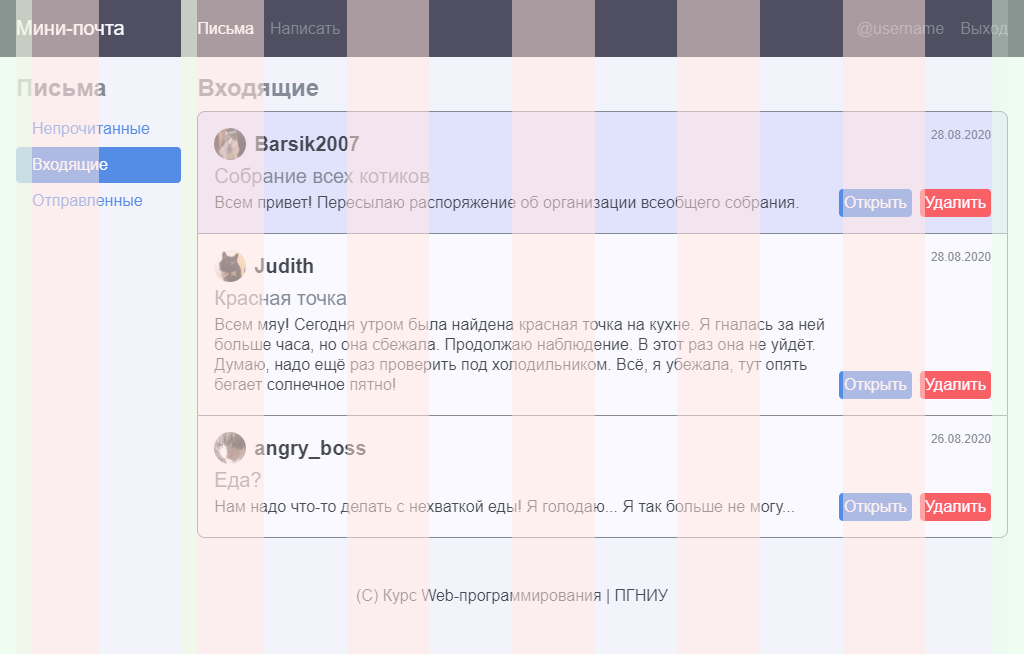
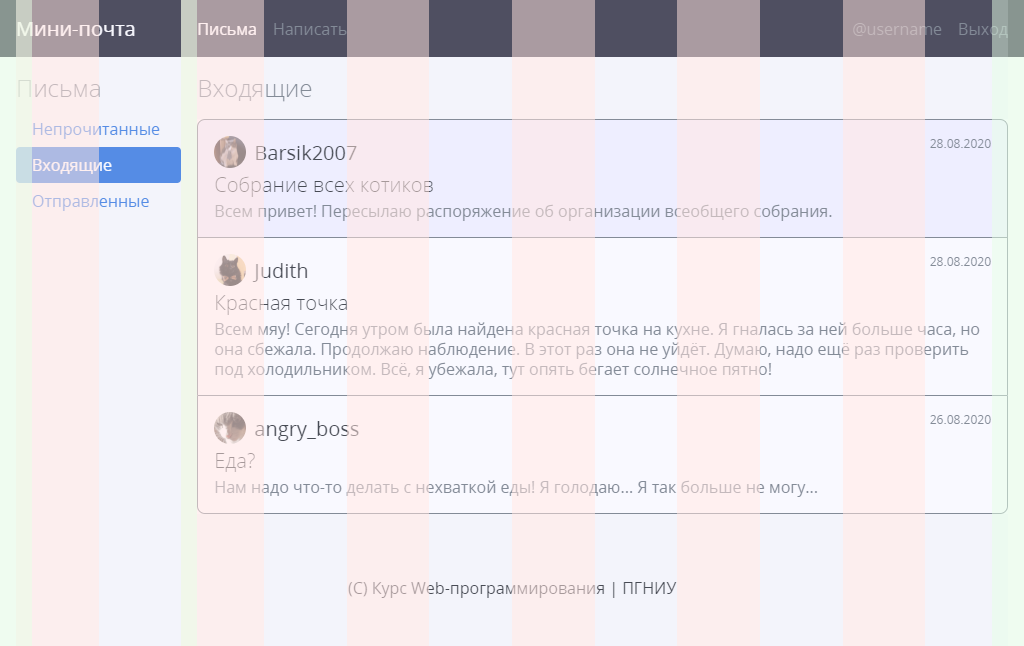
Make layout easier and more beautiful

diff --git a/solution/styles/_fonts.css b/solution/styles/_fonts.css
@@ -1,0 +1,72 @@
+/* cyrillic-ext */
+@font-face {
+  font-family: 'Open Sans';
+  font-style: normal;
+  font-weight: 300;
+  font-display: swap;
+  src: local('Open Sans Light'), local('OpenSans-Light'), url(https://fonts.gstatic.com/s/opensans/v17/mem5YaGs126MiZpBA-UN_r8OX-hpOqc.woff2) format('woff2');
+  unicode-range: U+0460-052F, U+1C80-1C88, U+20B4, U+2DE0-2DFF, U+A640-A69F, U+FE2E-FE2F;
+}
+/* cyrillic */
+@font-face {
+  font-family: 'Open Sans';
+  font-style: normal;
+  font-weight: 300;
+  font-display: swap;
+  src: local('Open Sans Light'), local('OpenSans-Light'), url(https://fonts.gstatic.com/s/opensans/v17/mem5YaGs126MiZpBA-UN_r8OVuhpOqc.woff2) format('woff2');
+  unicode-range: U+0400-045F, U+0490-0491, U+04B0-04B1, U+2116;
+}
+/* latin-ext */
+@font-face {
+  font-family: 'Open Sans';
+  font-style: normal;
+  font-weight: 300;
+  font-display: swap;
+  src: local('Open Sans Light'), local('OpenSans-Light'), url(https://fonts.gstatic.com/s/opensans/v17/mem5YaGs126MiZpBA-UN_r8OXOhpOqc.woff2) format('woff2');
+  unicode-range: U+0100-024F, U+0259, U+1E00-1EFF, U+2020, U+20A0-20AB, U+20AD-20CF, U+2113, U+2C60-2C7F, U+A720-A7FF;
+}
+/* latin */
+@font-face {
+  font-family: 'Open Sans';
+  font-style: normal;
+  font-weight: 300;
+  font-display: swap;
+  src: local('Open Sans Light'), local('OpenSans-Light'), url(https://fonts.gstatic.com/s/opensans/v17/mem5YaGs126MiZpBA-UN_r8OUuhp.woff2) format('woff2');
+  unicode-range: U+0000-00FF, U+0131, U+0152-0153, U+02BB-02BC, U+02C6, U+02DA, U+02DC, U+2000-206F, U+2074, U+20AC, U+2122, U+2191, U+2193, U+2212, U+2215, U+FEFF, U+FFFD;
+}
+/* cyrillic-ext */
+@font-face {
+  font-family: 'Open Sans';
+  font-style: normal;
+  font-weight: 400;
+  font-display: swap;
+  src: local('Open Sans Regular'), local('OpenSans-Regular'), url(https://fonts.gstatic.com/s/opensans/v17/mem8YaGs126MiZpBA-UFWJ0bbck.woff2) format('woff2');
+  unicode-range: U+0460-052F, U+1C80-1C88, U+20B4, U+2DE0-2DFF, U+A640-A69F, U+FE2E-FE2F;
+}
+/* cyrillic */
+@font-face {
+  font-family: 'Open Sans';
+  font-style: normal;
+  font-weight: 400;
+  font-display: swap;
+  src: local('Open Sans Regular'), local('OpenSans-Regular'), url(https://fonts.gstatic.com/s/opensans/v17/mem8YaGs126MiZpBA-UFUZ0bbck.woff2) format('woff2');
+  unicode-range: U+0400-045F, U+0490-0491, U+04B0-04B1, U+2116;
+}
+/* latin-ext */
+@font-face {
+  font-family: 'Open Sans';
+  font-style: normal;
+  font-weight: 400;
+  font-display: swap;
+  src: local('Open Sans Regular'), local('OpenSans-Regular'), url(https://fonts.gstatic.com/s/opensans/v17/mem8YaGs126MiZpBA-UFW50bbck.woff2) format('woff2');
+  unicode-range: U+0100-024F, U+0259, U+1E00-1EFF, U+2020, U+20A0-20AB, U+20AD-20CF, U+2113, U+2C60-2C7F, U+A720-A7FF;
+}
+/* latin */
+@font-face {
+  font-family: 'Open Sans';
+  font-style: normal;
+  font-weight: 400;
+  font-display: swap;
+  src: local('Open Sans Regular'), local('OpenSans-Regular'), url(https://fonts.gstatic.com/s/opensans/v17/mem8YaGs126MiZpBA-UFVZ0b.woff2) format('woff2');
+  unicode-range: U+0000-00FF, U+0131, U+0152-0153, U+02BB-02BC, U+02C6, U+02DA, U+02DC, U+2000-206F, U+2074, U+20AC, U+2122, U+2191, U+2193, U+2212, U+2215, U+FEFF, U+FFFD;
+}

diff --git a/solution/styles/index.css b/solution/styles/index.css
@@ -1,2 +1,4 @@
+@import "_fonts.css";
+
 /* For debug */
 /*@import "grid.css";*/

diff --git a/README.md b/README.md
@@ -30,6 +30,8 @@
 
 Автоматическое тестирование проводится в браузере, основанном на Chromium (Electron), с использованием фреймворка [Cypress](https://www.cypress.io/).
 
+Во время тестирования результат будет сравниваться с эталоном попиксельно, а также проверяться, что использованы правильные семантические теги и ссылки.
+
 ### Сетка
 
 ##### 1280x720
@@ -44,7 +46,7 @@
 ### Основные параметры
 
 - Межстрочный интервал: `1.25`
-- Шрифт: `Arial, sans-serif`
+- Шрифт: `'Open Sans', sans-serif` (подключен в `_fonts.css`)
 - Размеры шрифта:
     - Основной: `16px`
     - Маленький (дата сообщения): `0.75rem`
@@ -54,9 +56,8 @@
     - Основной цвет текста: `#212529`
     - Серый (заголовки, рамки): `#6c757d`
     - Белый: `#ffffff`
-    - Синий (ссылки, кнопки): `#3277de`
-    - Красный (кнопки): `#ff4040`
-    - Фон непрочитанного сообщения: `#e1e3fd`
+    - Синий (ссылки): `#3277de`
+    - Фон непрочитанного сообщения: `#f1f1ff`
     - Фон страницы: `#f8f9fa`
     - Фон навигационной панели: `#2a2a3a`
     - Фон белый: `#ffffff`
@@ -96,7 +97,7 @@
 - Основная часть отделена базовым отступом от навигационной панели
 - Основная часть визуально делится на колонки шириной 1/6 и 5/6
 - Колонки разделены базовым отступом
-- В начале каждой колонки жирный заголовок серого цвета заголовочного размера шрифта с маленьким отступом снизу
+- В начале каждой колонки тонкий заголовок серого цвета заголовочного размера шрифта с маленьким отступом снизу
 
 #### Меню
 
@@ -110,23 +111,14 @@
 - Рамки соседних сообщений не слипаются
 - Первое и последние сообщения имеют скруглённые рамки
 - Непрочитанное сообщение имеет особый цвет фона
-- Контент сообщения разделён на две части: основную с текстом (занимает всё доступное место) и дополнительную справа
-- Основная часть содержит три параграфа, разделённых очень маленьким отступом
-- Первый параграф содержит аватар и имя отправителя жирным шрифтом большого размера
+- Сообщение содержит три параграфа, разделённых очень маленьким отступом
+- Первый параграф содержит аватар и имя отправителя шрифтом большого размера
 - Аватар - круглый блок, который отделяется от имени базовым отступом
 - Изображение внутри блока с аватаром занимает всё доступное место, сохраняя исходные пропорции (используйте `background-size`)
-- Тема сообщения выводится серым цветом шрифтом большого размера
-- Справа выводится дата вверху и кнопки внизу
-- Дата выводится серым цветом шрифтом маленького размера в элементе `<time>`
-- Кнопки разделены маленьким отступом
-
-#### Кнопки
-
-- Кнопки имеют маленькое скругление рамки
-- Кнопки имеют очень маленький внутренний отступ
-- Основная кнопка имеет синий фон и белый текст
-- Красная кнопка имеет красный фон и белый текст
-- При наведении цвета фона и текста кнопки меняются местами, появляется рамка того же цвета
+- Имя автора находится по центру первого параграфа
+- Тема сообщения выводится тонким шрифтом большого размера
+- Текст сообщения выводится серым цветом
+- Справа сверху выводится дата сообщения серым цветом шрифтом маленького размера в элементе `<time>`
 
 ## Инструкция по автоматическому тестированию
 
